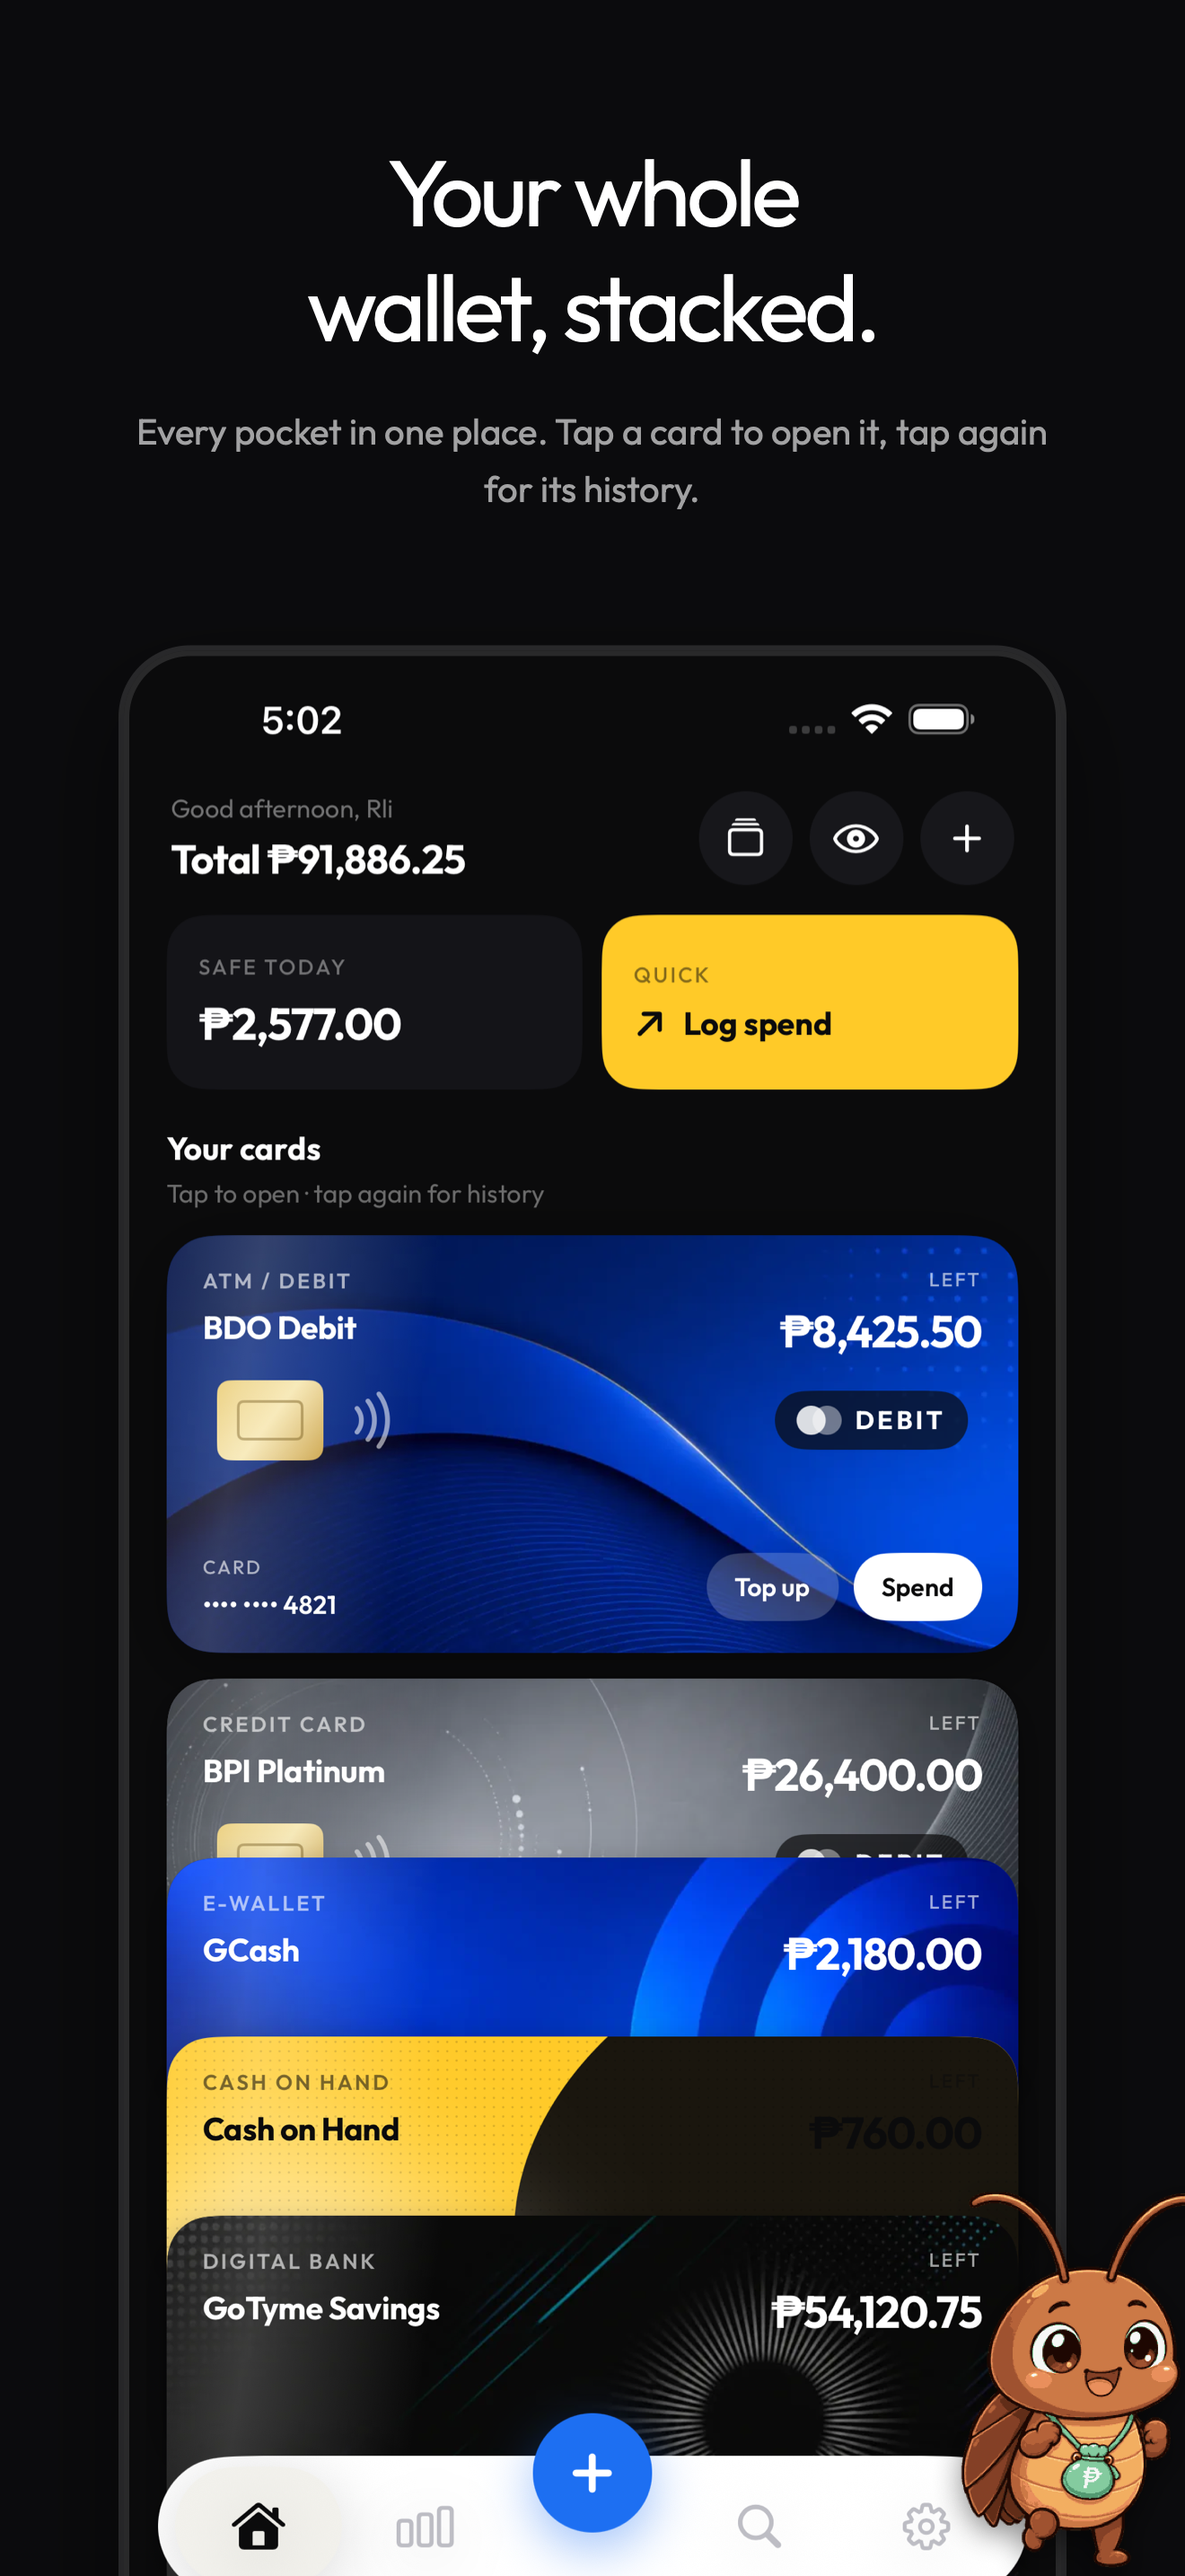
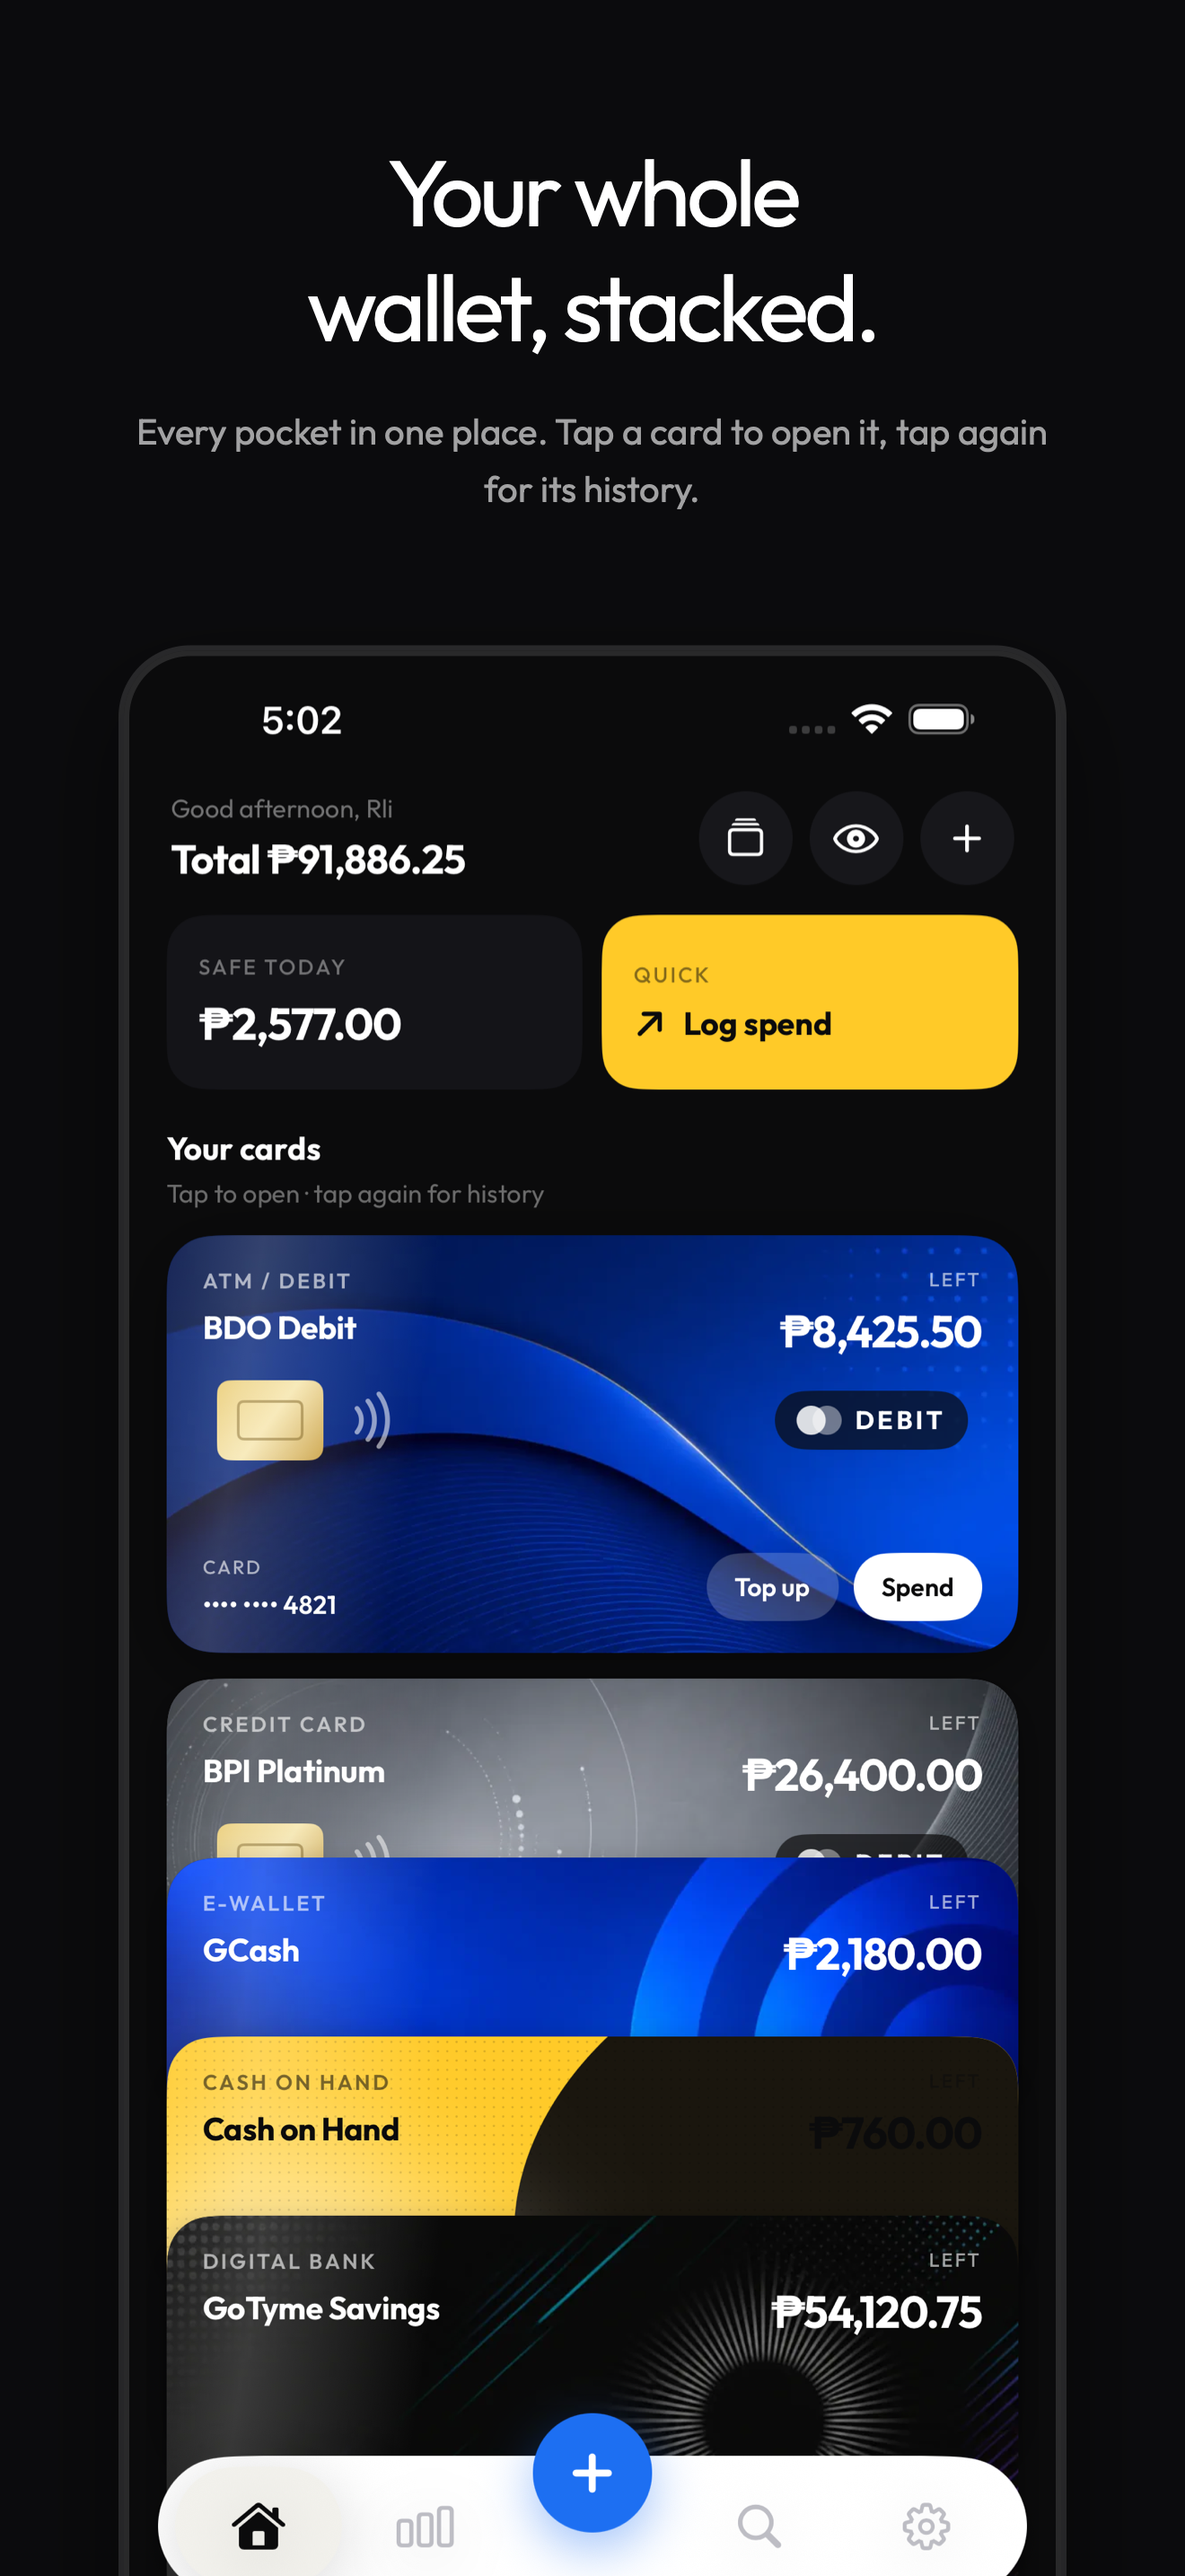
Drop the mascot from the store screenshots
Removed the overlay outright rather than leaving it switched off, so the
renderer keeps only what it draws. Recoverable from history if wanted.

Changed region(s): [[0.8076, 0.8379, 1.0, 1.0]]

diff --git a/ios/Pesolita/StoreAssets/render.swift b/ios/Pesolita/StoreAssets/render.swift
@@ -31,11 +31,8 @@ func outfit(_ size: CGFloat, _ weight: NSFont.Weight) -> NSFont {
     return NSFont(descriptor: descriptor, size: size) ?? base
 }
 
-enum MascotSide { case none, left, right }
-
 struct Panel {
     let file: String, headline: String, body: String, style: String
-    var mascot: MascotSide = .none
 }
 
 let panels: [Panel] = [
@@ -62,13 +59,11 @@ let panels: [Panel] = [
     .init(file: "12-stacked-wallet",
           headline: "Your whole\nwallet, stacked.",
           body: "Every pocket in one place. Tap a card to open it, tap again for its history.",
-          style: "ink",
-          mascot: .right),
+          style: "ink"),
     .init(file: "13-widget-home",
           headline: "Balance on your\nHome Screen.",
           body: "Flick between cards, see what is safe to spend today, and log a spend without opening the app.",
-          style: "blue",
-          mascot: .left),
+          style: "blue"),
 ]
 
 func draw(_ panel: Panel, index: Int, canvas: Canvas, out: URL) throws {
@@ -164,24 +159,6 @@ func draw(_ panel: Panel, index: Int, canvas: Canvas, out: URL) throws {
     ctx.setLineWidth(12 * k)
     ctx.strokePath()
     ctx.restoreGState()
-
-    if panel.mascot != .none,
-       let mascot = NSImage(contentsOf: build.appendingPathComponent("mascot.png")),
-       let mascotRef = mascot.cgImage(forProposedRect: nil, context: nil, hints: nil) {
-        // Sized against the device rather than the canvas so it reads as standing beside
-        // the phone, and drawn last so it laps over the device edge like a sticker.
-        let mw = deviceW * 0.33
-        let mh = mw * (CGFloat(mascotRef.height) / CGFloat(mascotRef.width))
-        // Anchored near the foot of the phone and pushed mostly outside it, so the mascot
-        // reads as standing beside the device instead of covering live balances.
-        let mx = panel.mascot == .left ? rect.minX - mw * 0.58 : rect.maxX - mw * 0.42
-        let my = rect.minY + deviceH * 0.055
-        ctx.saveGState()
-        ctx.setShadow(offset: CGSize(width: 0, height: -10 * k), blur: 34 * k,
-                      color: CGColor(red: 0, green: 0, blue: 0, alpha: 0.45))
-        ctx.draw(mascotRef, in: CGRect(x: mx, y: my, width: mw, height: mh))
-        ctx.restoreGState()
-    }
 
     guard let image = ctx.makeImage() else { throw NSError(domain: "image", code: 3) }
     let rep = NSBitmapImageRep(cgImage: image)

diff --git a/ios/Pesolita/StoreAssets/SUBMISSION.md b/ios/Pesolita/StoreAssets/SUBMISSION.md
@@ -122,9 +122,6 @@ accepts — `StoreAssets/AppStore/iphone-6.9/` at **1320 × 2868** and
 | 6 | Five-card stack | Your whole wallet, stacked. |
 | 7 | Widget on Home Screen | Balance on your Home Screen. |
 
-Six and seven carry the mascot, anchored at the foot of the phone and mostly outside it so
-it reads as standing beside the device rather than covering a balance.
-
 The widget shot is the real widget on a real Home Screen, added through Springboard by
 `StoreShotTests`. Note the path that finally worked: iOS 26 offers widget sizes as a row of
 glyphs in the app icon's long-press menu, with no "Add Widget" label to query, and the widget
